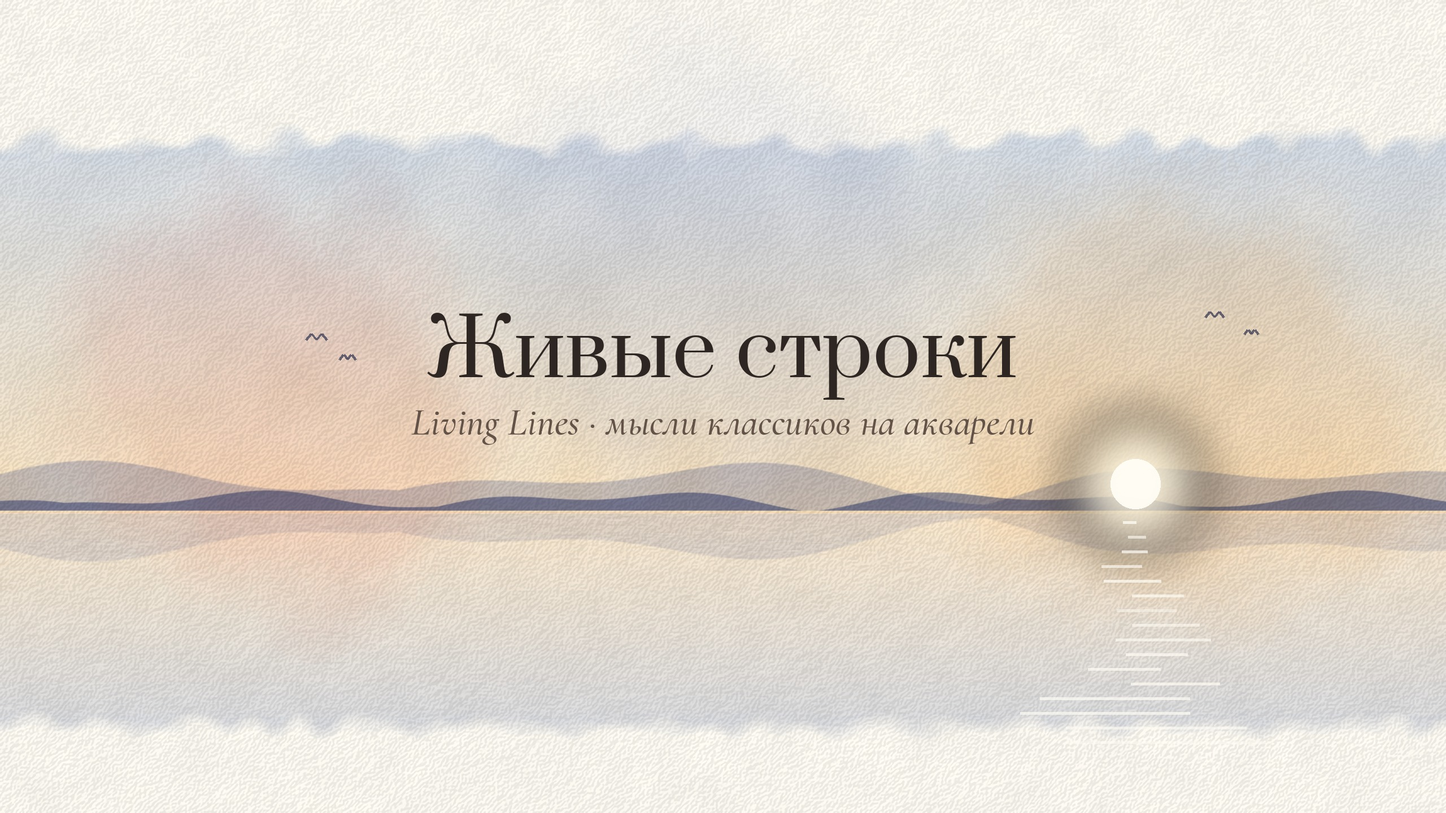
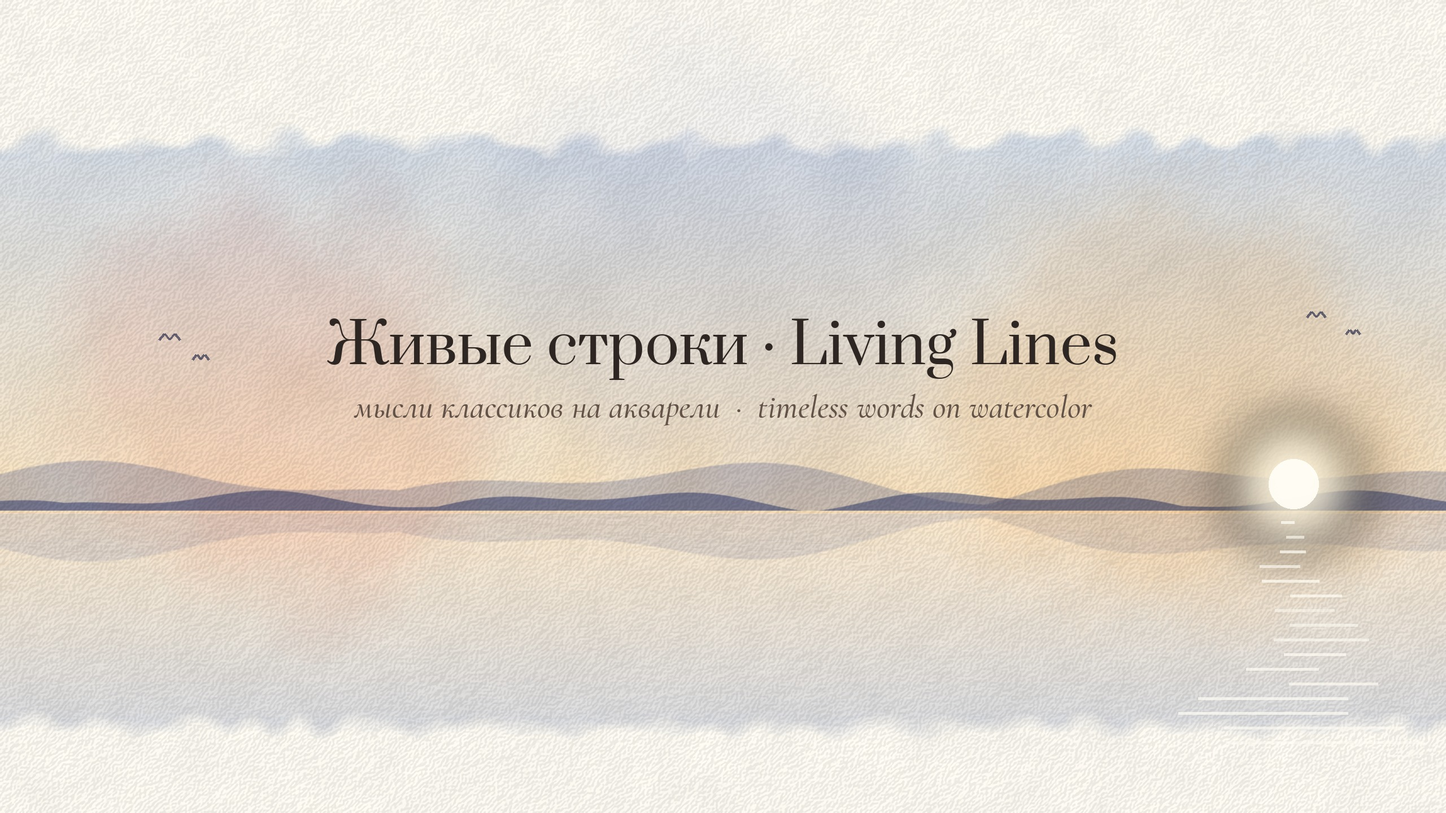
Оформление: двуязычное название в шапке, перо на аватаре
Claude-Session: https://claude.ai/code/session_01WYD119a3KPz7cxuGKdjbvW

diff --git a/branding.py b/branding.py
@@ -61,7 +61,7 @@ def avatar():
     # тёплый рассвет: небо, солнце, вода — в круге
     blot(canvas, valley, 400, 330, 310, (0.70, 0.78, 0.94), 0.8, 21, soft=2.0)
     blot(canvas, valley, 400, 450, 260, (0.98, 0.74, 0.58), 0.75, 22, soft=2.0)
-    blot(canvas, valley, 400, 430, 140, (0.99, 0.86, 0.56), 0.8, 23, soft=2.5)
+    blot(canvas, valley, 370, 430, 140, (0.99, 0.86, 0.56), 0.8, 23, soft=2.5)
     # линия горизонта-холмы
     yy, xx = np.mgrid[0:S, 0:S].astype(np.float32)
     ridge = 470 - 40 * np.abs(np.sin(xx / 90 + 0.8)) - 15 * np.sin(xx / 31)
@@ -72,16 +72,32 @@ def avatar():
     d = ImageDraw.Draw(img, "RGBA")
     # солнце
     glow = Image.new("RGBA", (S, S), (0, 0, 0, 0))
-    ImageDraw.Draw(glow).ellipse([400 - 70, 430 - 70, 400 + 70, 430 + 70], fill=(255, 250, 230, 200))
+    ImageDraw.Draw(glow).ellipse([360 - 70, 430 - 70, 360 + 70, 430 + 70], fill=(255, 250, 230, 200))
     img.paste(glow.filter(ImageFilter.GaussianBlur(26)), (0, 0), glow.filter(ImageFilter.GaussianBlur(26)))
-    d.ellipse([400 - 30, 430 - 30, 400 + 30, 430 + 30], fill=(255, 253, 244, 245))
-    # буквы «ЖС» сверху
-    f = qc.font(qc.F_RU, 210)
-    s = "ЖС"
-    w = d.textlength(s, font=f)
-    d.text(((S - w) / 2, 112), s, font=f, fill=(52, 44, 40, 235))
-    # тонкая линия-перо под буквами
-    d.line([(300, 372), (500, 372)], fill=(170, 140, 90, 210), width=4)
+    d.ellipse([360 - 30, 430 - 30, 360 + 30, 430 + 30], fill=(255, 253, 244, 245))
+    # перо над рассветом — универсальный знак без букв
+    import math as _m
+    pts_l, pts_r = [], []
+    x0, y0, x1, y1 = 585, 110, 425, 575          # от кончика опахала к кончику пера
+    for k in range(41):
+        t = k / 40
+        x = x0 + (x1 - x0) * t + 40 * _m.sin(_m.pi * t) * 0.6
+        y = y0 + (y1 - y0) * t
+        w = (0 if t > 0.86 else 58 * _m.sin(_m.pi * min(1, t / 0.86)) ** 0.8)
+        nx, ny = (y1 - y0), -(x1 - x0)
+        L = _m.hypot(nx, ny)
+        nx, ny = nx / L, ny / L
+        pts_l.append((x + nx * w * 0.55, y + ny * w * 0.55))
+        pts_r.append((x - nx * w, y - ny * w))
+    d.polygon(pts_l + pts_r[::-1], fill=(58, 50, 62, 235))
+    # стержень и бородки
+    d.line([(x0 + 4, y0 + 6), (x1, y1)], fill=(236, 228, 214, 230), width=4)
+    for k in range(6, 34, 3):
+        t = k / 40
+        x = x0 + (x1 - x0) * t + 40 * _m.sin(_m.pi * t) * 0.6
+        y = y0 + (y1 - y0) * t
+        d.line([(x, y), (x - 34 * (1 - t), y - 10)], fill=(236, 228, 214, 110), width=2)
+    d.polygon([(x1 - 9, y1 - 18), (x1 + 9, y1 - 14), (x1 - 2, y1 + 22)], fill=(40, 34, 44, 255))
     img.save(f"{OUT}/avatar_800.png")
     # превью в круге, как увидит YouTube
     mask = Image.new("L", (S, S), 0)
@@ -125,7 +141,7 @@ def banner():
     img = finish(canvas, shade)
     d = ImageDraw.Draw(img, "RGBA")
     # солнце и дорожка
-    sx, sy = 2010, hor - 48
+    sx, sy = 2290, hor - 48
     glow = Image.new("RGBA", (W, H), (0, 0, 0, 0))
     ImageDraw.Draw(glow).ellipse([sx - 120, sy - 120, sx + 120, sy + 120], fill=(255, 248, 225, 210))
     g = glow.filter(ImageFilter.GaussianBlur(40))
@@ -138,17 +154,17 @@ def banner():
         x0 = sx + rnd.uniform(-hw * 0.4, hw * 0.4)
         ln = rnd.uniform(0.3, 0.7) * hw
         d.line([(x0 - ln, y), (x0 + ln, y)], fill=(255, 252, 244, int(rnd.uniform(120, 210))), width=5)
-    for bx, by, s in ((560, 600, 18), (615, 635, 14), (2150, 560, 16), (2215, 590, 12)):
+    for bx, by, s in ((300, 600, 18), (355, 635, 14), (2330, 560, 16), (2395, 590, 12)):
         d.line([(bx - s, by + 2), (bx - s * 0.5, by - s * 0.45), (bx, by + 1), (bx + s * 0.5, by - s * 0.45), (bx + s, by + 2)],
                fill=(80, 78, 98, 220), width=4, joint="curve")
     # текст — в безопасной зоне 1546×423 по центру
     d = ImageDraw.Draw(img, "RGBA")
-    f1 = qc.font(qc.F_RU, 140)
-    f2 = qc.font(qc.F_EN, 68, 500)
-    t1, t2 = "Живые строки", "Living Lines · мысли классиков на акварели"
-    y = 528
+    f1 = qc.font(qc.F_RU, 100)
+    f2 = qc.font(qc.F_EN, 58, 500)
+    t1, t2 = "Живые строки · Living Lines", "мысли классиков на акварели  ·  timeless words on watercolor"
+    y = 545
     d.text(((W - d.textlength(t1, font=f1)) / 2, y), t1, font=f1, fill=(46, 38, 34, 255))
-    d.text(((W - d.textlength(t2, font=f2)) / 2, y + 178), t2, font=f2, fill=(98, 82, 72, 255))
+    d.text(((W - d.textlength(t2, font=f2)) / 2, y + 140), t2, font=f2, fill=(98, 82, 72, 255))
     img.save(f"{OUT}/banner_2560x1440.jpg", quality=92)
     # превью: как видно на телефоне (центр 1546×423) и на ПК (2560×423)
     tv = img.resize((640, 360), Image.LANCZOS)
